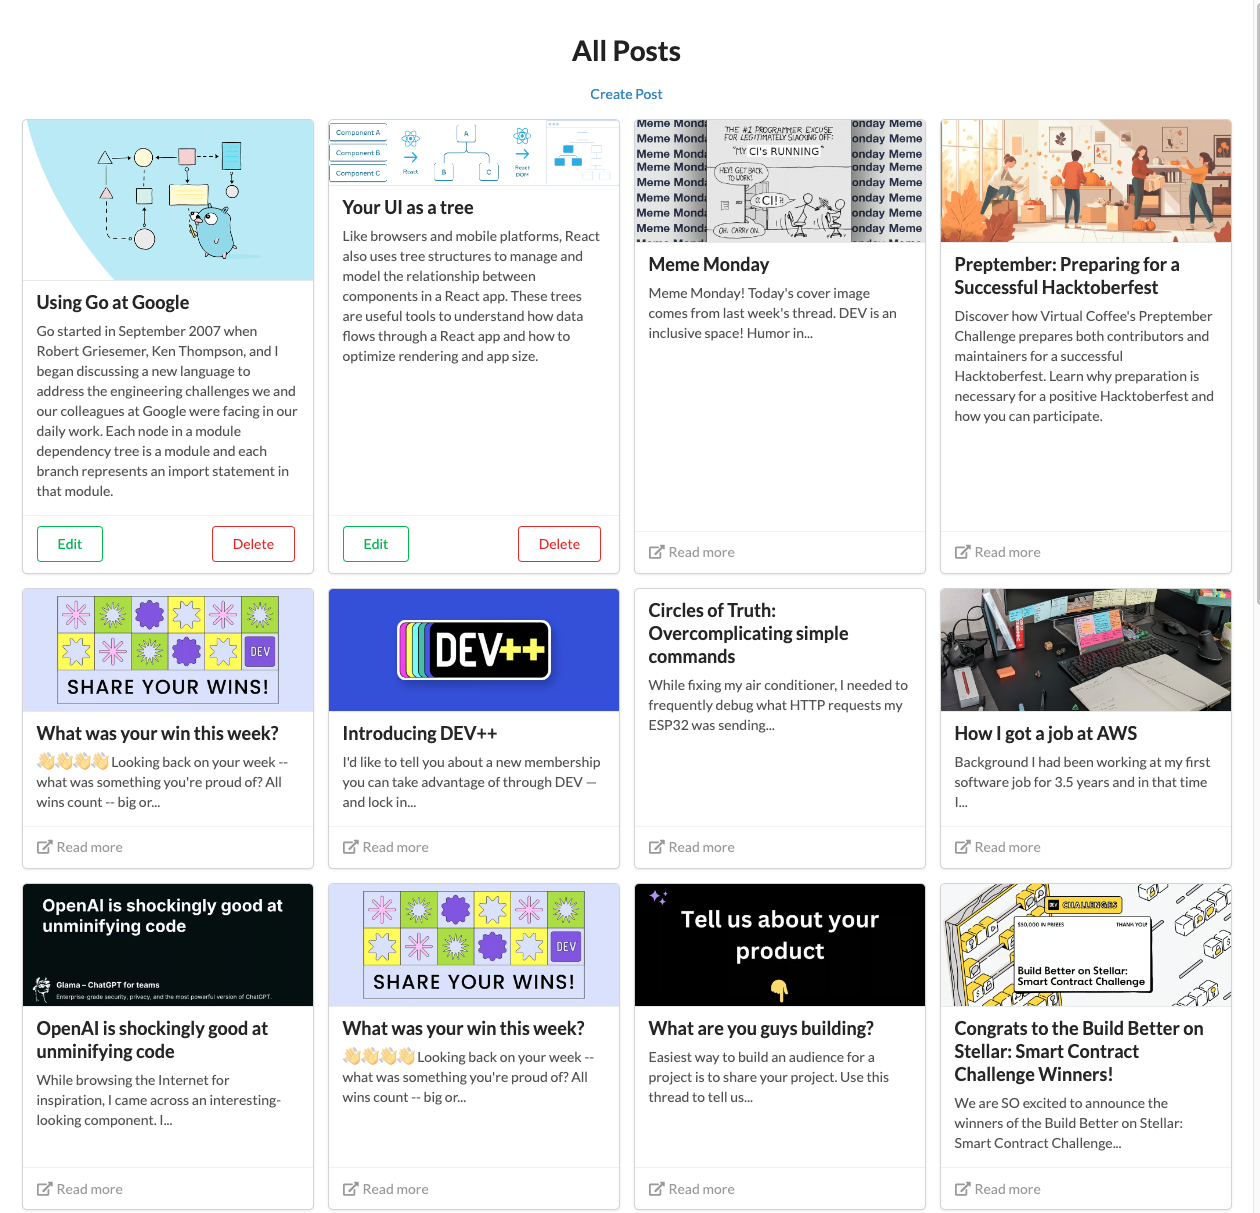
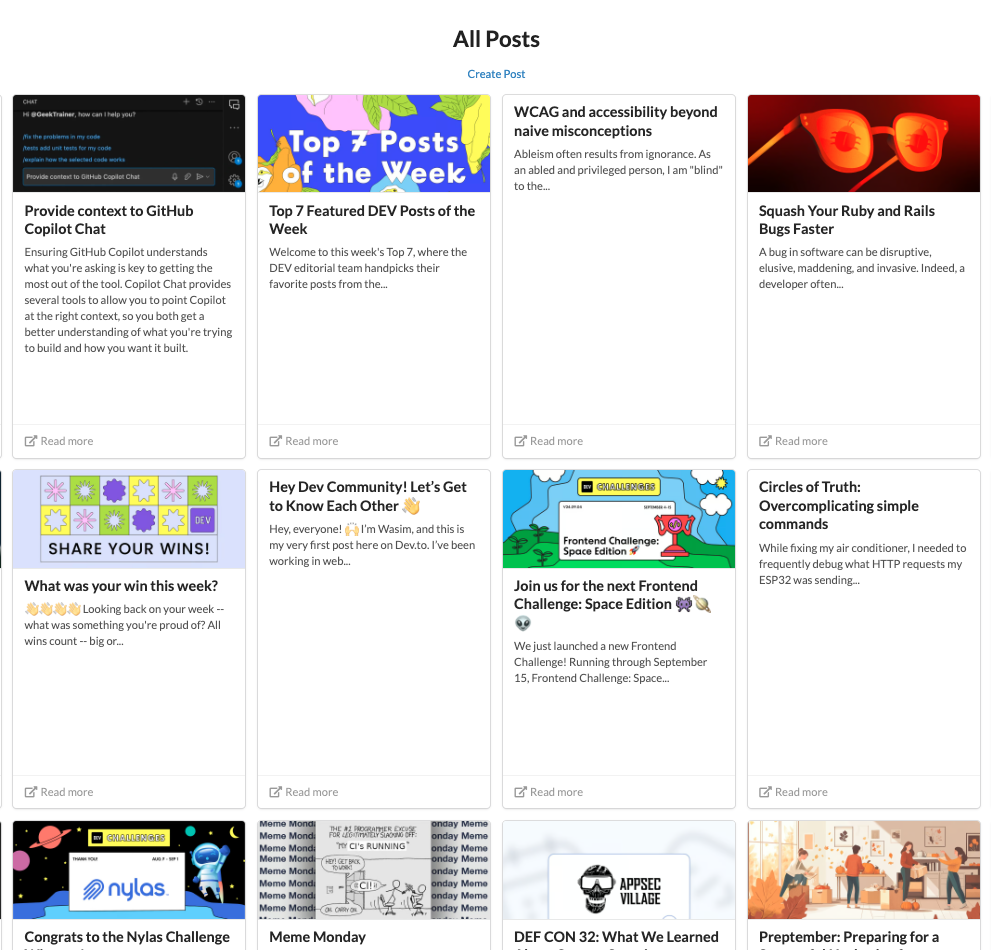
Worked with style cards

diff --git a/src/domains/cards/components/CardList.tsx b/src/domains/cards/components/CardList.tsx
@@ -7,19 +7,17 @@ import styles from "./Cards.module.scss";
 const colors = ["#EDF0FF", "#F6E8C5", "#DCEDEC", "#EDF8FF"];
 
 const CardList: React.FC = () => (
-  <div className={styles.workMainContainer}>
-    <div className={styles.cardWrapper}>
-      {cardsData.map((card, index) => (
-        <CardItem
-          key={index}
-          title={card.title}
-          description={card.description}
-          cover_image={card.cover_image}
-          color={colors[index % colors.length]}
-          technologies={card.technologies}
-        />
-      ))}
-    </div>
+  <div className={styles.cardListWrapper}>
+    {cardsData.map((card, index) => (
+      <CardItem
+        key={index}
+        title={card.title}
+        description={card.description}
+        cover_image={card.cover_image}
+        color={colors[index % colors.length]}
+        technologies={card.technologies}
+      />
+    ))}
   </div>
 );
 

diff --git a/src/domains/cards/components/Cards.module.scss b/src/domains/cards/components/Cards.module.scss
@@ -1,15 +1,8 @@
-.cardWrapper {
+.cardListWrapper {
   display: flex;
   flex-wrap: wrap;
-  justify-content: center;
   gap: 20px;
-}
-
-.workMainContainer {
-  display: flex;
   justify-content: center;
-  align-items: flex-start;
-  padding: 40px;
 }
 
 .groupButton {
@@ -17,4 +10,30 @@
   justify-content: center;
   align-items: center;
   gap: 10px;
+}
+
+.card {
+  width: calc(50% - 100px);
+  min-height: 400px;
+  box-sizing: border-box;
+}
+
+.cardImage {
+  width: 100%;
+  height: 220px;
+  object-fit: cover;
+  border-radius: 8px;
+  margin-bottom: 60px;
+}
+
+@media (max-width: 1080px) {
+  .card {
+    width: calc(100% - 20px);
+  }
+}
+
+@media (max-width: 480px) {
+  .cardImage {
+    height: 150px;
+  }
 }

diff --git a/src/domains/cards/components/CardItem.tsx b/src/domains/cards/components/CardItem.tsx
@@ -25,11 +25,10 @@ const CardItem: React.FC<CardItemProps> = ({
   color,
   technologies = [],
 }) => (
-  <Card
-    hoverable
-    style={{ width: "45%", marginBottom: "20px", backgroundColor: color }}
-    cover={cover_image ? <img alt="card" src={cover_image} /> : null}
-  >
+  <Card hoverable className={styles.card} style={{ backgroundColor: color }}>
+    {cover_image && (
+      <img src={cover_image} alt={title} className={styles.cardImage} />
+    )}
     <h2>{title}</h2>
     <p>{description}</p>
     <div className={styles.groupButton}>
